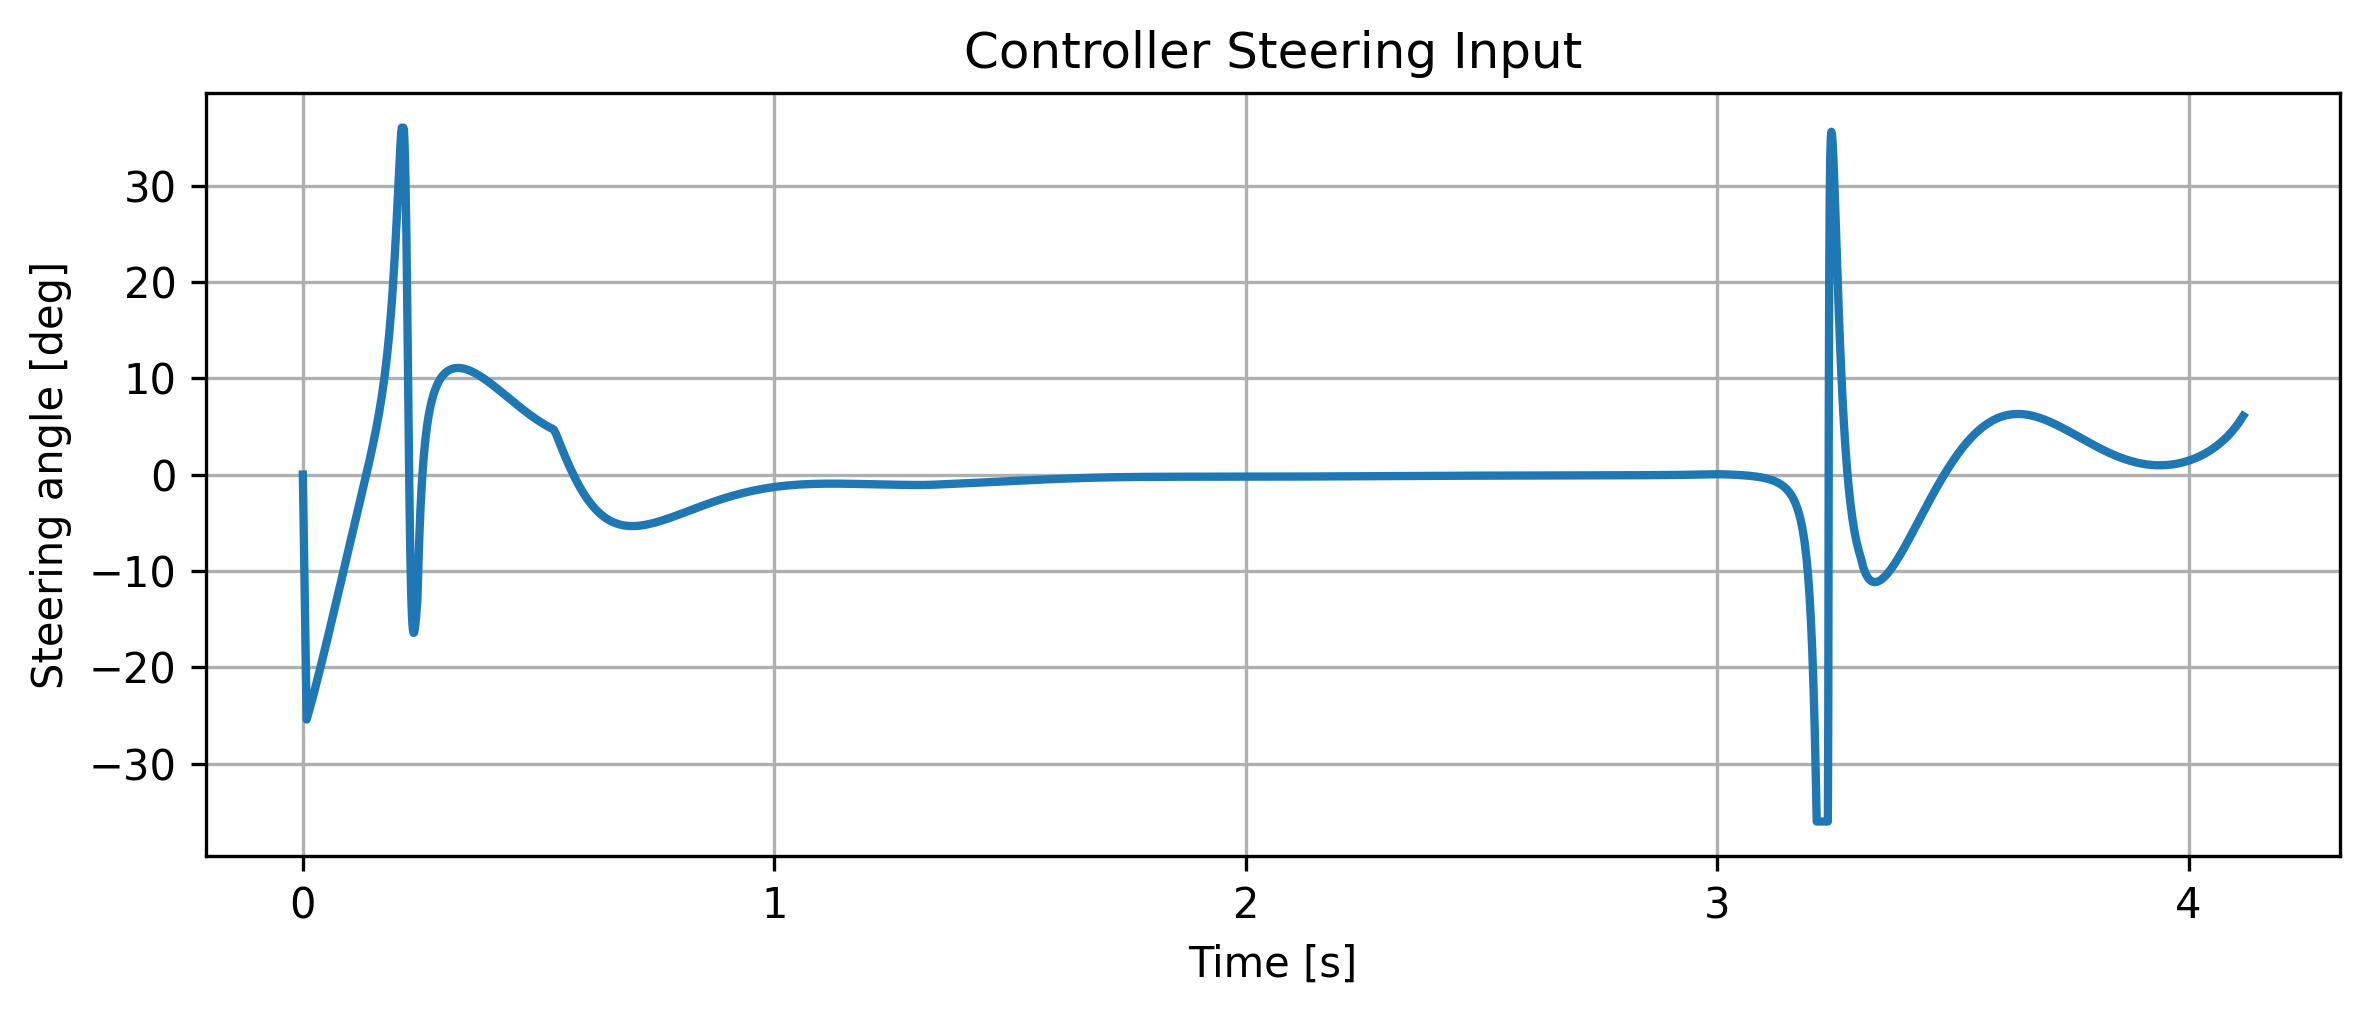
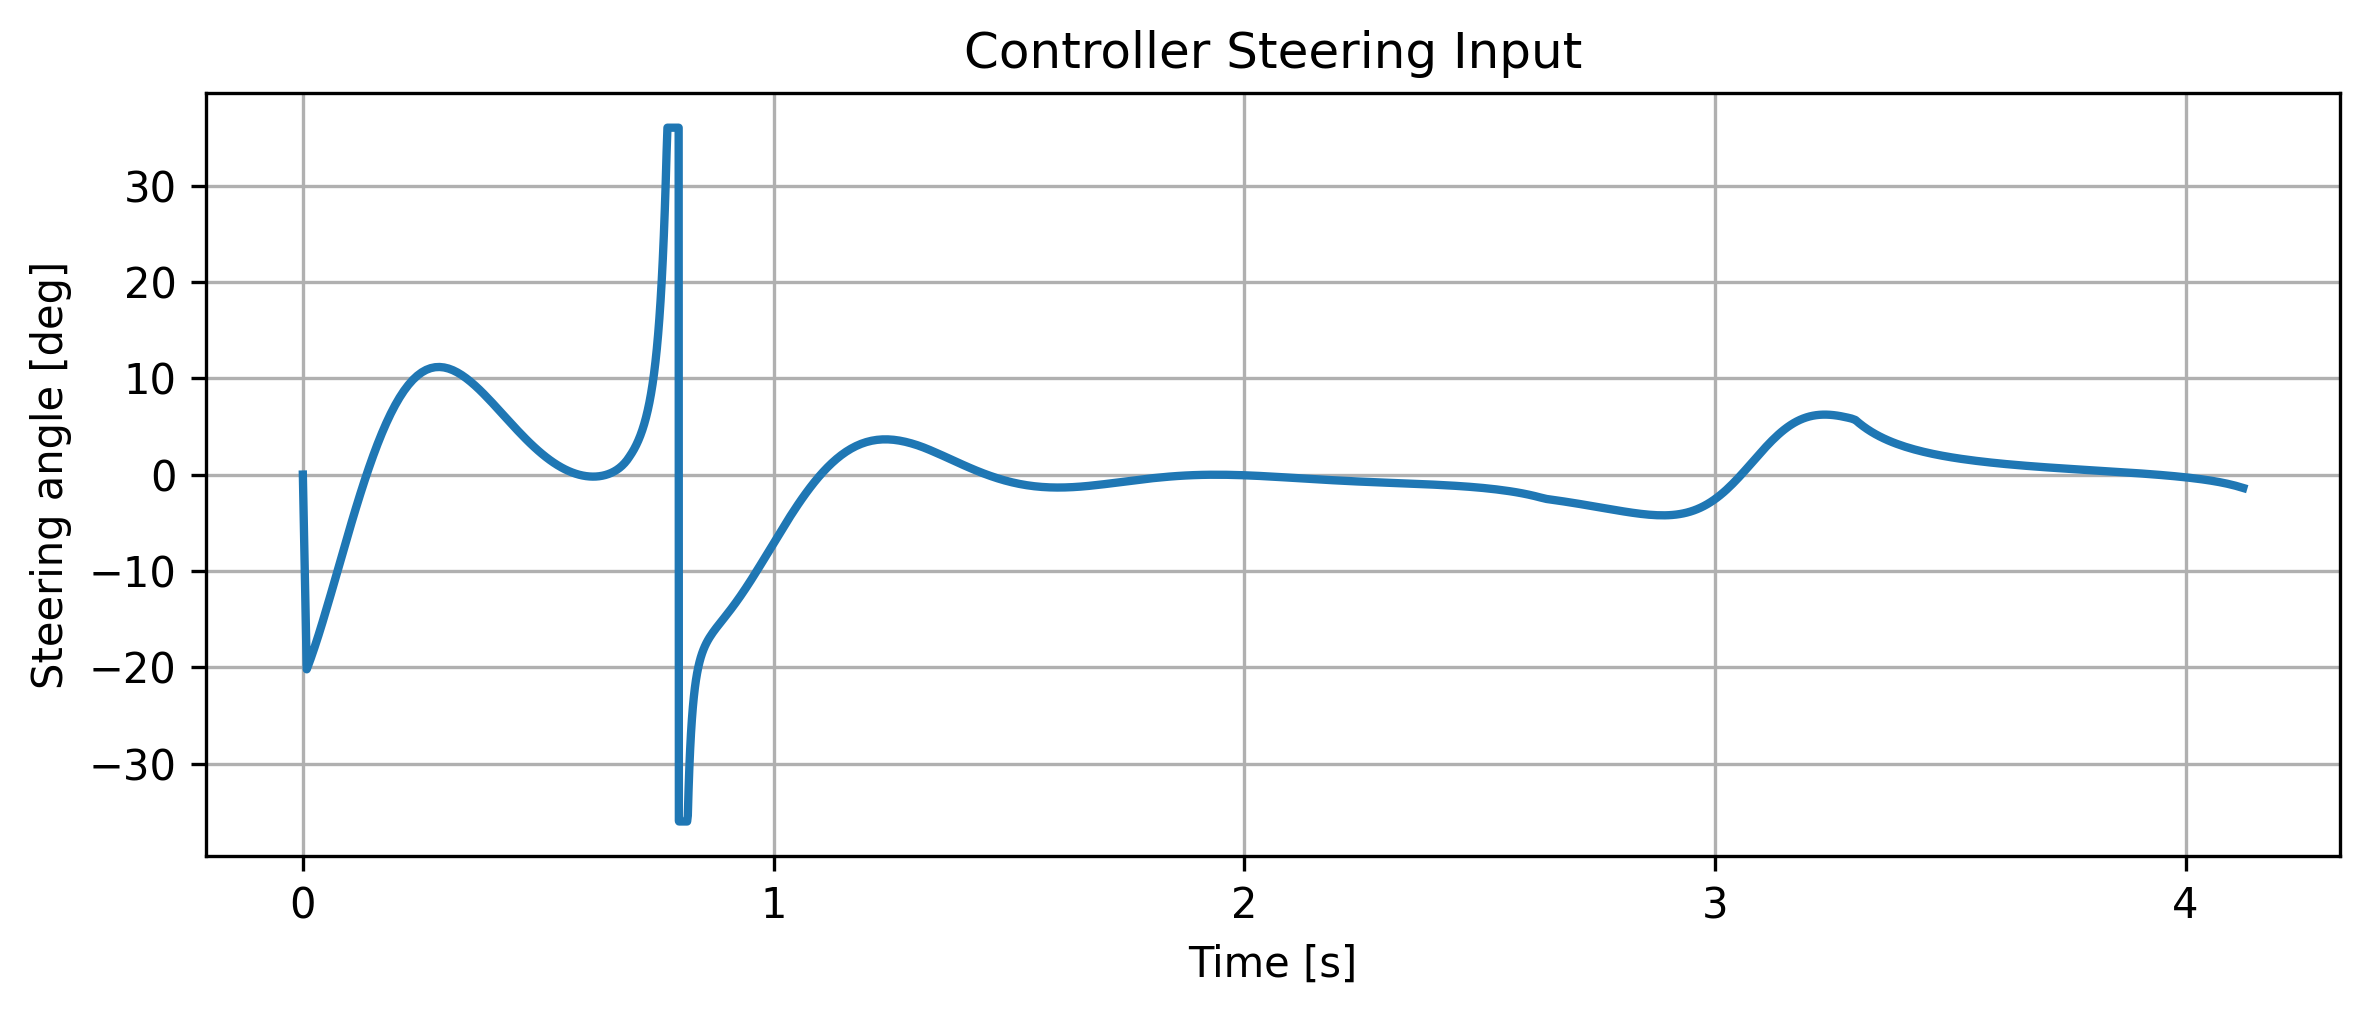
Working through model file

Changed region(s): [[0.1249, 0.122, 0.9679, 0.8238], [0.9367, 0.3967, 0.9679, 0.4272]]

diff --git a/control/Four_State_Model/Model.py b/control/Four_State_Model/Model.py
@@ -1,0 +1,77 @@
+import control.Vehicle_Params as Vehicle_Params
+import numpy as np
+
+def build_state_matrices():
+
+    Vx = Vehicle_Params.V_x
+    m = Vehicle_Params.mass
+    Cf = Vehicle_Params.Cf
+    Cr = Vehicle_Params.Cr
+    lf = Vehicle_Params.lf
+    lr = Vehicle_Params.lr
+    Iz = Vehicle_Params.yaw_inertia
+
+    A = np.array([
+        [0.0, Vx, 1.0, 0.0],
+
+        [0.0, 0.0, 0.0, 1.0],
+
+        [0.0, 0.0,
+         -(2 * Cf + 2 * Cr) / (m * Vx),
+         ((-2 * Cf * lf + 2 * Cr * lr) / (m * Vx)) - Vx],
+
+        [0.0, 0.0,
+         (-2 * Cf * lf + 2 * Cr * lr) / (Iz * Vx),
+         -(2 * Cf * lf**2 + 2 * Cr * lr**2) / (Iz * Vx)]
+    ])
+
+    B = np.array([
+        [0.0],
+        [0.0],
+        [2 * Cf / m],
+        [2 * Cf * lf / Iz]
+    ])
+
+    E = np.array([
+        [0.0],
+        [- Vx],
+        [0.0],
+        [0.0]
+    ])
+
+    return A, B, E
+
+def controllability_matrix(A: np.ndarray, B: np.ndarray):
+    n = A.shape[0]
+    controllability_matrix = B
+    for i in range(1, n):
+        controllability_matrix = np.hstack((controllability_matrix, np.linalg.matrix_power(A, i) @ B))
+    return controllability_matrix
+
+def check_stability(A: np.ndarray):
+    eigenvalues = np.linalg.eigvals(A)
+    print(f"Eigenvalues of A: {eigenvalues}")
+    if np.all(np.real(eigenvalues) < 0):
+        print("The system is stable.")
+    else:
+        print("The system is NOT stable.")
+    return np.all(np.real(eigenvalues) < 0)
+
+def check_controllability(A: np.ndarray, B: np.ndarray):
+    n = A.shape[0]
+    cm = controllability_matrix(A, B)
+    rank = np.linalg.matrix_rank(cm)
+    if rank == n:
+        print(f"The system is controllable. {rank == n} (Rank: {rank}, Size: {n})")
+    else:
+        print(f"The system is NOT controllable. {rank == n} (Rank: {rank}, Size: {n})")
+    return rank == n
+
+
+def main():
+    A, B, E = build_state_matrices()
+    check_controllability(A, B)
+    check_stability(A)
+
+if __name__ == "__main__":
+    main()

diff --git a/control/Vehicle_Params.py b/control/Vehicle_Params.py
@@ -10,8 +10,8 @@ yaw_inertia = 2400  # kg*m^2, estimated
     #Vehicle wheelbase; source: https://www.tesla.com/en_au/model3
 whlb = 2.875  # m
     #CoG distances using weight distribution; source: https://www.tesla.com/en_au/model3
-lf = whlb * 0.47  # m, distance from CoG to front axle
-lr = whlb * 0.53  # m, distance from CoG to rear
+lr = whlb * 0.47  # m, distance from CoG to rear axle
+lf = whlb * 0.53  # m, distance from CoG to front axle
 
     #Stiffness coefficients; source: https://www.studeersnel.nl/nl/document/technische-universiteit-eindhoven/road-vehicle-dynamics/exercise-1-tesla-cg/92372964
 Cf = 107500  # N/rad, front cornering stiffness 
